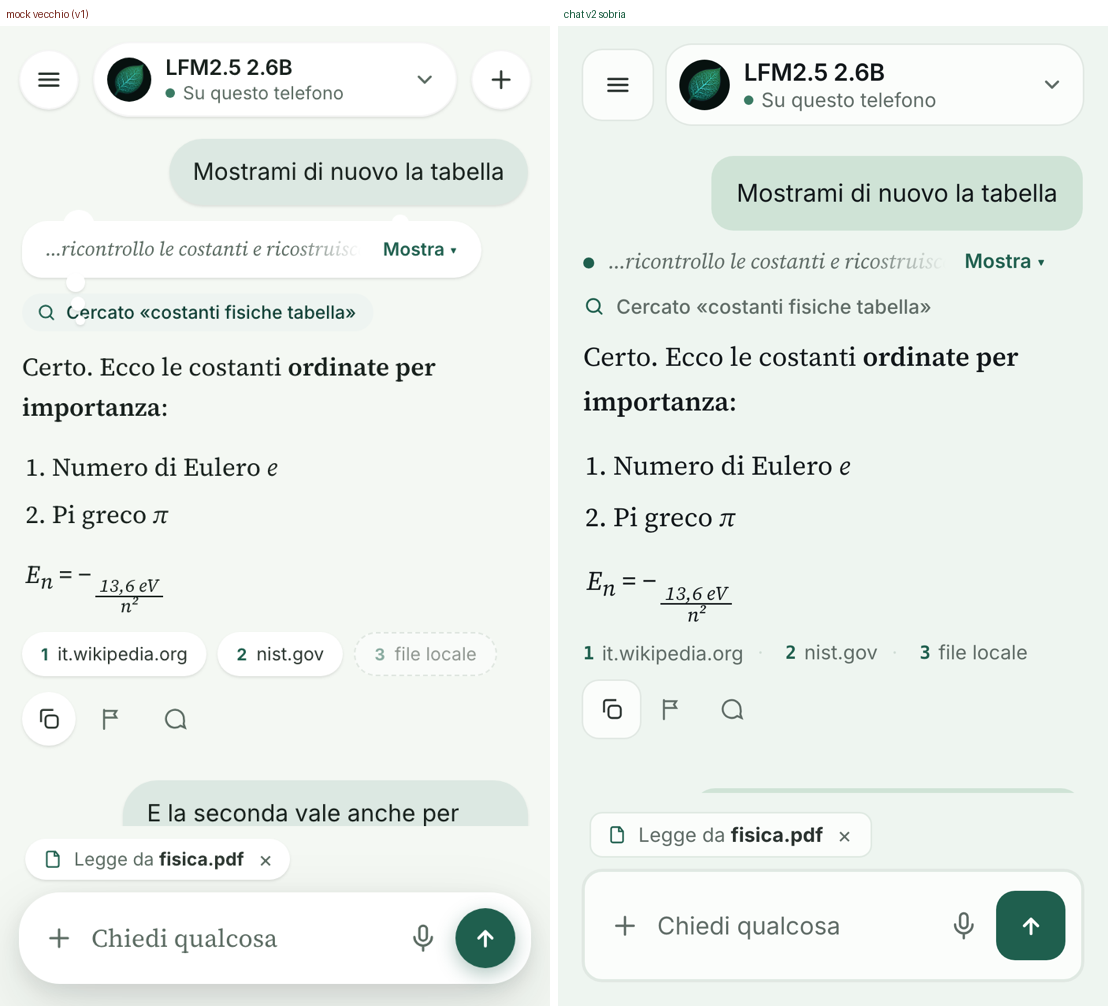
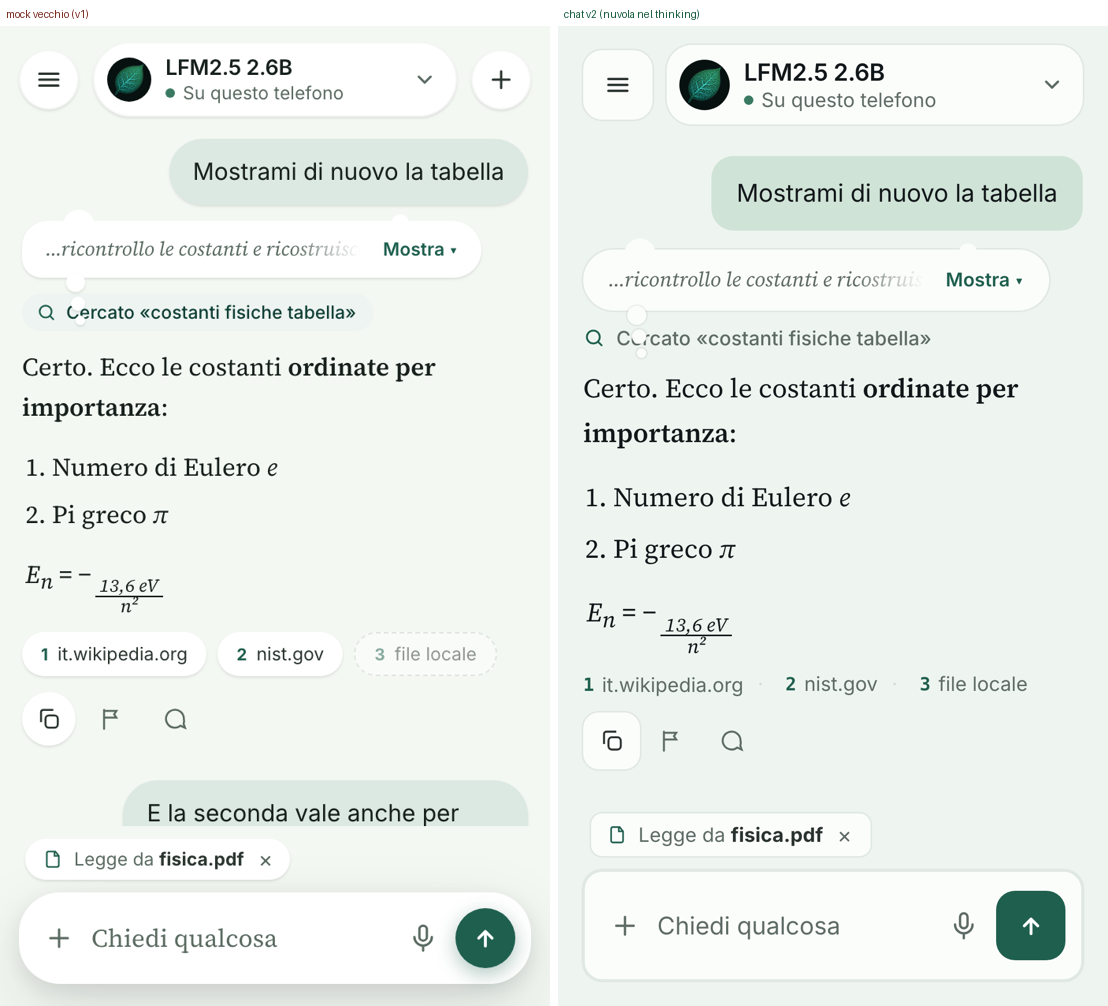
design: the cloud comes back, for the thinking state only
The owner liked the cloud and wanted it only where it means something. DESIGN-V2
now names it as the interface's single metaphor: a surface card with the ticker
line, two attached bubbles and the trail of three shrinking circles, live while
the model thinks and absent everywhere else. Rule 1.6 keeps its no-metaphors
line with that one exception written in, and the mock renders it again with the
v2 tokens while everything else stays sober.

repo kalsa-ux, branch ux-2026-09-21, parent 2859757

diff --git a/docs/design/kalsa-mock-v2.html b/docs/design/kalsa-mock-v2.html
@@ -741,14 +741,12 @@ body{background:var(--page);font-size:15px}
 .stream{gap:32px}
 .me{background:#cfe3d6;border-radius:var(--r-bub);padding:12px 16px;font-size:15.5px;line-height:1.5;box-shadow:none}
 .ai .txt{font-size:17px;line-height:1.68}
-/* la nuvoletta non e' piu' un fumetto: e' una riga di stato con un punto vivo */
-.cloud{margin:2px 0}
-.cloud .bub{background:transparent;box-shadow:none;border-radius:0;padding:0;gap:12px;align-items:center}
-.cloud .bub::before,.cloud .bub::after{display:none}
-.cloud .tail{display:none}
-.face{font-family:var(--read);font-style:italic;font-size:13.5px;color:var(--ink3);max-width:230px}
-.face::before{content:"";display:inline-block;width:7px;height:7px;border-radius:99px;background:var(--accent);margin-right:9px;vertical-align:middle}
-.tg{font-size:12.5px;font-weight:600;color:var(--accent)}
+/* the thinking cloud stays, and lives only here: the owner's one metaphor */
+.cloud{margin-top:4px}
+.cloud .bub{border-radius:22px;box-shadow:var(--e1);padding:10px 16px 11px}
+.face{font-size:13px}
+.tg{font-size:12px;font-weight:600;color:var(--accent)}
+.tail span{box-shadow:var(--e1)}
 /* i tool: una riga quieta, non pastiglie */
 .tools{gap:0;align-items:baseline}
 .tt{background:transparent;border:0;padding:0;font-size:12.5px;font-weight:500;color:var(--ink3);gap:7px}

diff --git a/docs/DESIGN-V2.md b/docs/DESIGN-V2.md
@@ -93,8 +93,7 @@ touch box** (the painted control may be smaller: 44 px send, 36 px ghost action,
 
 A rule the v2 pass was written against, because the first version of it read as a toy:
 
-- **No metaphors.** The thought "cloud" is not a cloud: it is a status row with a dot. Nothing in the
-  interface is shaped like an object it does not literally represent.
+- **No metaphors** — with one exception the owner set explicitly: **the thinking cloud**, the desktop's own element, which appears while the model is thinking and nowhere else. Everything else in the interface is shaped like what it is.
 - **No pill soup.** A container is a hairline, not a shadow, unless the thing floats over content. A
   row of metadata (sources, tools) is text with separators and mono indices, not a row of pills.
 - **Type carries the hierarchy, not ornament.** When a screen needs emphasis, the size or the weight
@@ -140,7 +139,7 @@ Each entry is the anatomy a coder implements; states are named because a missing
 | **Answer** | no container: `surface` is the page; `reading` text, 0 left padding beyond the gutter | streaming (caret), stopped (see below), error |
 | **Source chip** | 32 dp, radius 10, `surface`, 1 px `line`, 12 px label, a `mono` index in `accent` | live (tappable), unavailable (dashed `line2`, `ink3`) |
 | **Tool row** | `tint` pill, 28 dp, 12 px label, 14 px icon in `accent`, grouped into one wrapping row per turn | running, done |
-| **Thinking card** | **a status row, not a bubble**: a 7 px `accent` dot, a 13.5 px Source Serif italic fragment of the current thought with a right fade, and a `Mostra` text button in `accent`; no container, no shadow, no tail | live (the dot pulses), expanded (the full thought in a `surface` card) |
+| **Thinking — the cloud** | **the owner's own element, and the only metaphor the interface is allowed**: a `surface` card, radius 22, `e1`, carrying a ticker line — the current thought in 13 px Source Serif italic with a right fade — and a `Mostra ▾` text button; two small attached bubbles on its top edge and a **trail of three shrinking circles below-left** (12, 9, 6 px), the first one pulsing | live (the ticker advances, the first trail circle pulses), collapsed, expanded (the whole thought in a card) |
 | **Stop marker** | a row in `wait` colours with a 20 px icon and 13 px text, placed where the answer stopped | stopped by the user, stopped by the engine |
 | **Attachment chip** | 36 dp, radius 10, `surface`, 1 px `line`, 16 px file icon, filename in `headline`, trailing `×` | uploading, ready, failed |
 | **Progress** | 4 px track radius 999, `tint` ground, `brand` fill, no shadow; the percentage always appears as text beside it | determinate, indeterminate |
